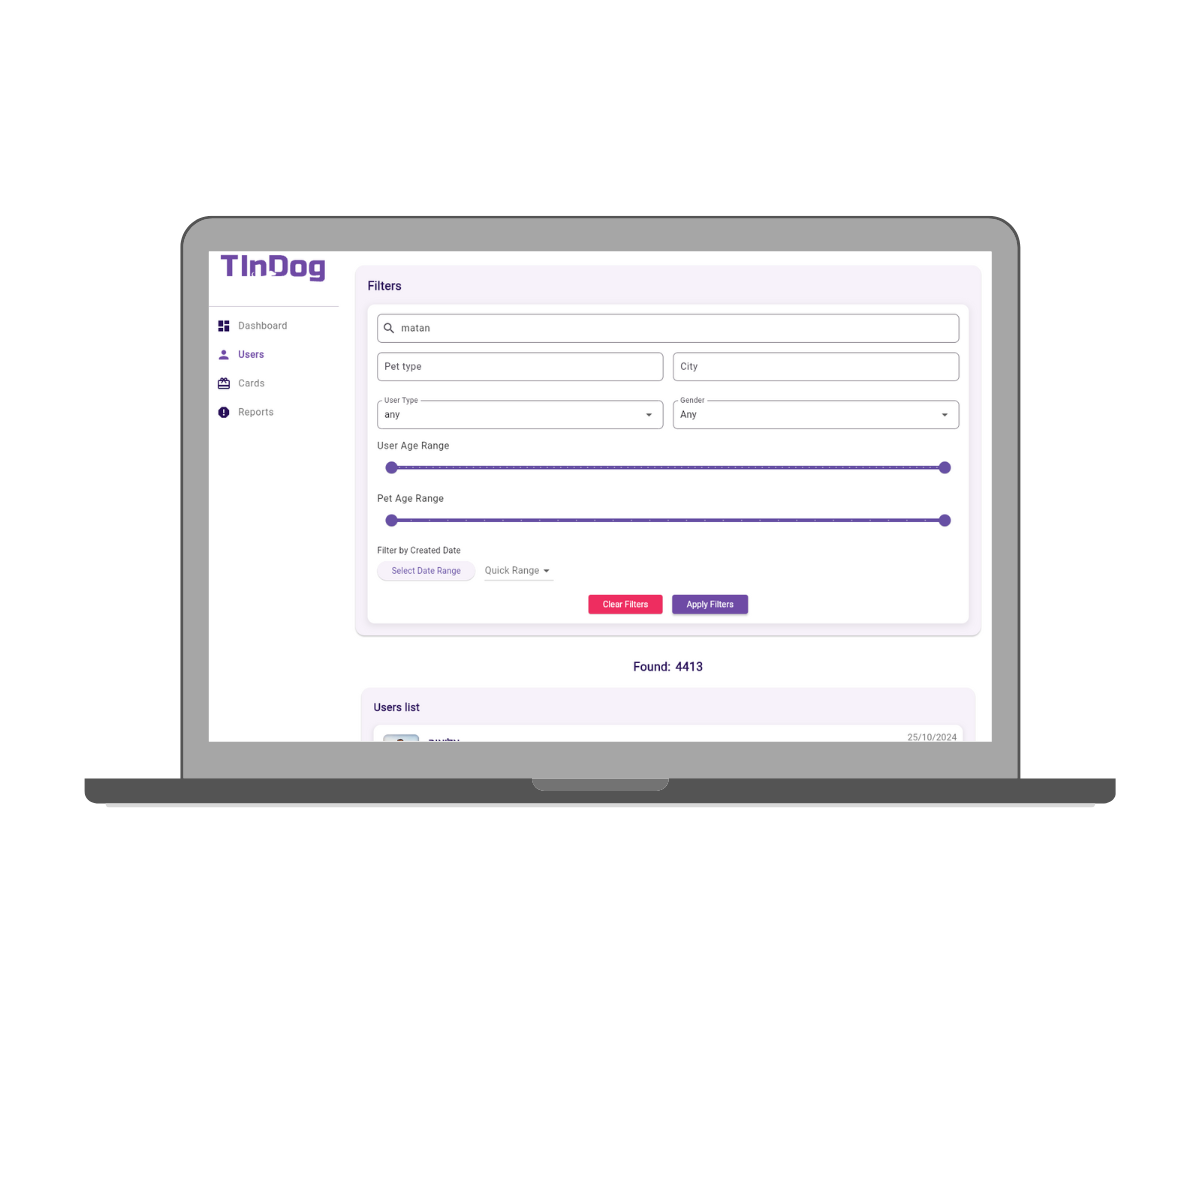
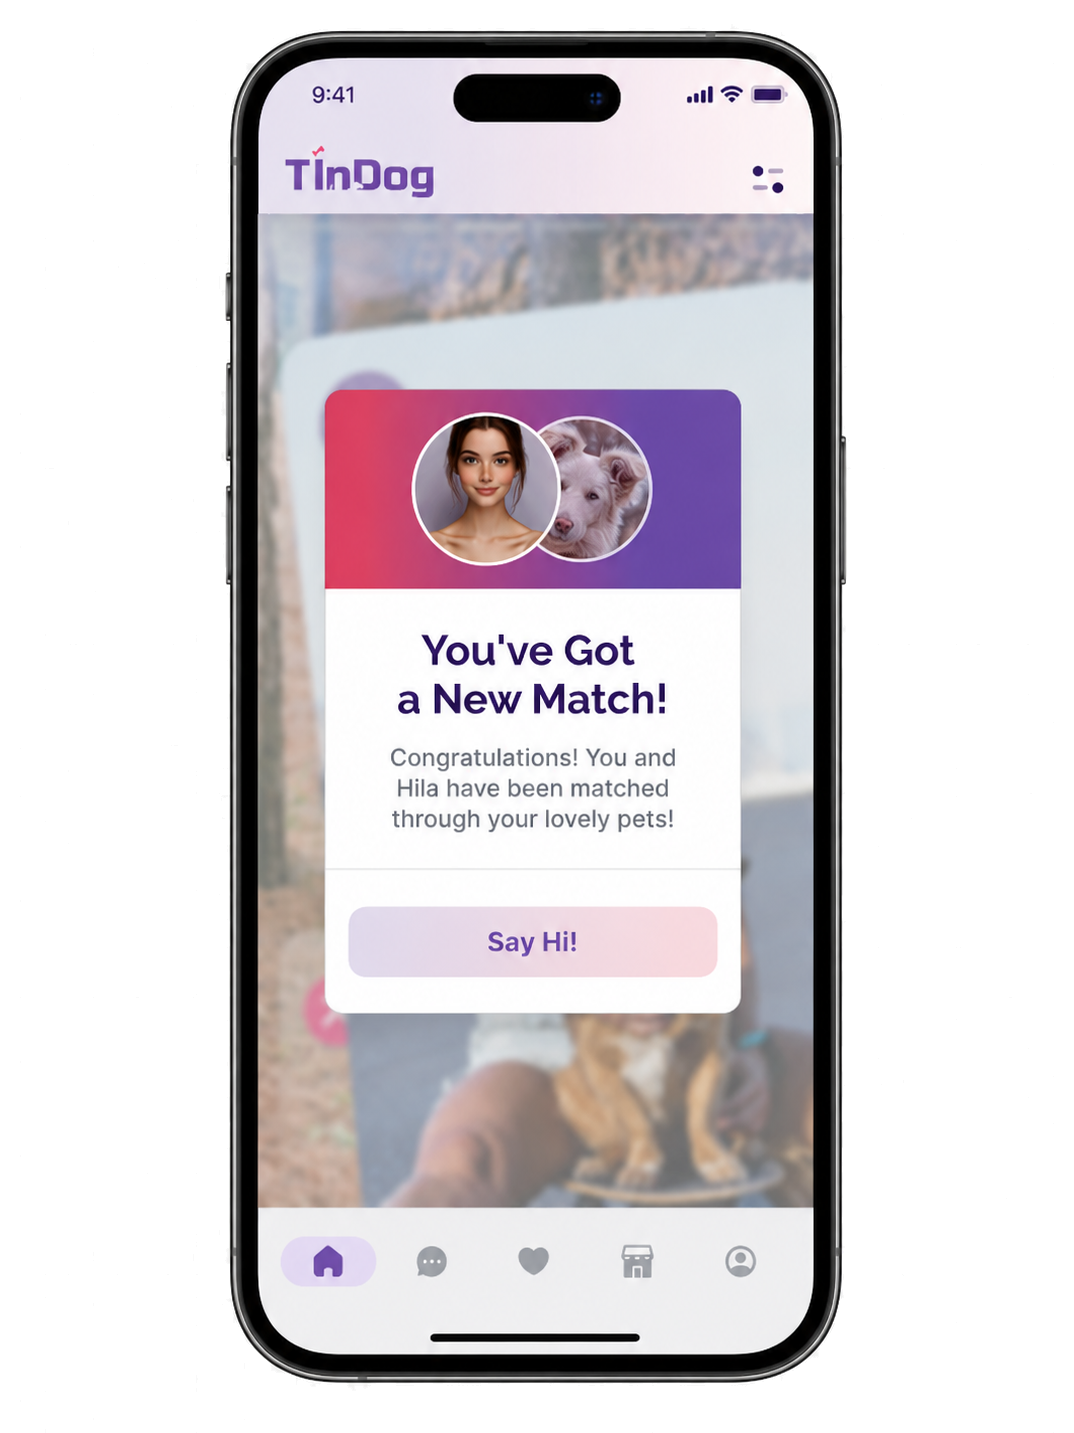
refactor: update skill sets, add Docker/PostgreSQL support, and remove the timeline component

diff --git a/components/Portfolio.tsx b/components/Portfolio.tsx
@@ -4,7 +4,6 @@ import { Github, Mail, Linkedin, Phone } from "lucide-react";
 import { Button } from "@/components/ui/button";
 import ProjectGrid from "./ProjectGrid";
 import Skills from "./SkillGrid";
-import Timeline from "./Timeline";
 import TextAnimation from "./TextAnimation";
 
 export default function Portfolio() {
@@ -104,10 +103,6 @@ export default function Portfolio() {
               <ProjectGrid />
             </section>
 
-            <section id="experience" className="space-y-6">
-              <h2 className="text-3xl font-bold"></h2>
-              <Timeline />
-            </section>
           </div>
         </div>
       </div>

diff --git a/lib/consts/project_list.ts b/lib/consts/project_list.ts
@@ -33,7 +33,8 @@ export const projects: Project[] = [
       "Node.js",
       "Express.js",
       "Redis",
-      "MySQL",
+      "PostgreSQL",
+      "Docker",
       "Git",
       "Jira",
     ],
@@ -138,7 +139,7 @@ export const projects: Project[] = [
       "/assets/tindog/5.png",
     ],
     description: "A dating app for dog owners",
-    skills: ["Dart", "Flutter", "Firebase", "Git"],
+    skills: ["Dart", "Flutter", "Firebase", "Redis", "Docker", "Git"],
     features: ["Auth", "Bloc and Cubit", "MVC", "SOLID"],
     github: {
       isPublic: false,

diff --git a/lib/consts/skills_list.ts b/lib/consts/skills_list.ts
@@ -23,10 +23,12 @@ export const categorizedSkills = {
     { name: 'MySQL', icon: '/assets/skills/mysql.png' },
     { name: 'MongoDB', icon: '/assets/skills/mongo-db.png' },
     { name: 'Redis', icon: '/assets/skills/redis.png' },
+    { name: 'PostgreSQL', icon: '/assets/skills/postgress.png' },
   ],
 
   Tools: [
     { name: 'Git', icon: '/assets/skills/git.png' },
+    { name: 'Docker', icon: '/assets/skills/docker.png' },
     { name: 'Jira', icon: '/assets/skills/jira.png' },
     { name: 'Figma', icon: '/assets/skills/figma.png' },
     { name: 'Postman', icon: '/assets/skills/postman.png' },